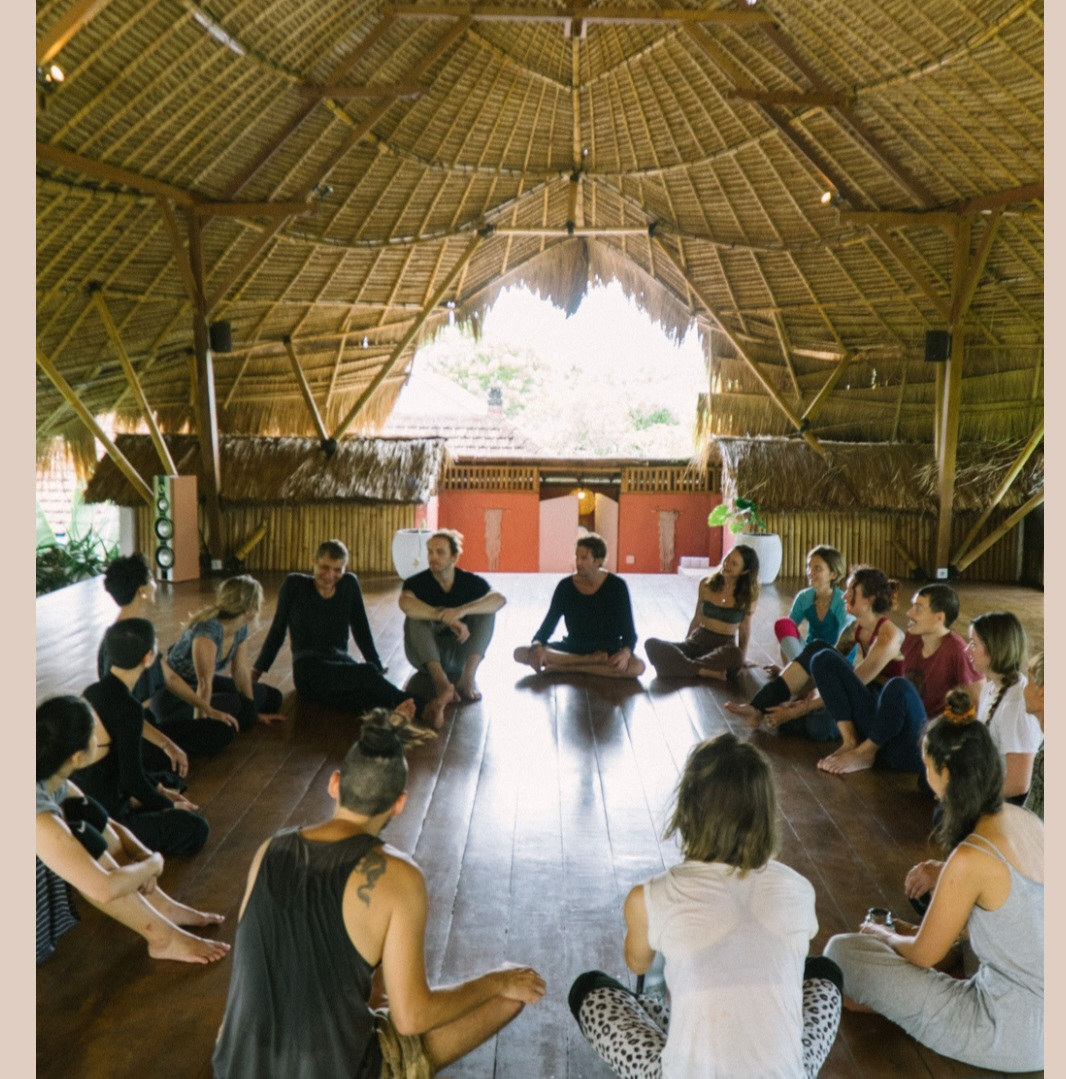
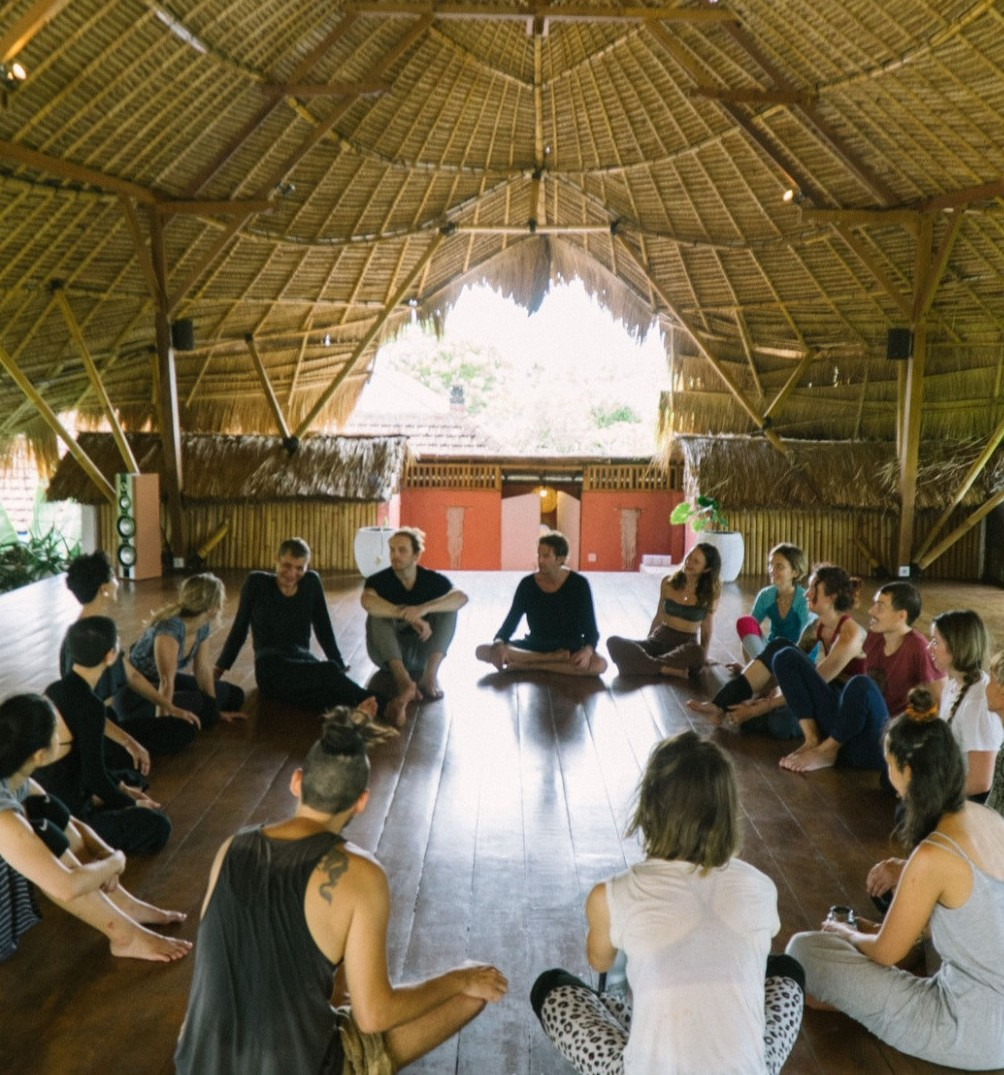
Who it's for before Why join, story below student needs, FAQ before venue, TDE button, full-frame circle photo
Claude-Session: https://claude.ai/code/session_0178kzjQyJnWHmYXgJQw5jcU

diff --git a/index.html b/index.html
@@ -627,6 +627,8 @@ footer a:hover{color:var(--ink)}
 .notice li:last-child{border-bottom:0}
 .gradphoto{margin-top:48px}
 .gradphoto img{width:100%;height:auto;display:block}
+/* v21 */
+.storytext .words{font-family:"Cormorant Garamond",Georgia,serif;font-weight:500;font-size:1.6rem}
 </style>
 </head>
 <body>
@@ -683,20 +685,31 @@ footer a:hover{color:var(--ink)}
     <div class="vidwrap"><video src="img/promo.mp4" poster="img/promo-poster.jpg" autoplay muted loop playsinline controls preload="metadata" aria-label="Momentum workshop promo video"></video></div>
   </div>
 </section>
-<section id="story">
+<section id="fit">
   <div class="wrap">
-    <div class="stack storytext">
-      <p class="cap hi">Why I built Momentum</p>
-      <h2>I nerd out on how contact is taught</h2>
-      <p class="lede">Contact lit me up the first time I danced it, and it still does. After leading <strong>50+ contact workshops</strong>, I'm about twenty steps ahead of most new teachers, simply because I've already made the mistakes.</p>
-      <p class="muted">When I walk into other contact classes, even with experienced teachers, I notice the same things:</p>
-      <ul class="notice">
-        <li>Music from next door competing with the class</li>
-        <li>A floor nobody swept, and no fan on in a hot room</li>
-        <li>A teacher who can't get the group's attention</li>
-        <li>A playlist that isn't getting anyone moving</li>
+    <div class="head">
+      <p class="cap hi">Is this for you?</p>
+      <h2>Who this training is for</h2>
+    </div>
+    <div class="fit">
+      <ul>
+        <li>A contact dancer with some experience who feels ready to start teaching or hosting jams</li>
+        <li>Wanting to bring contact home to your community, or share it more widely</li>
+        <li>Curious about how people learn, not only how to dance</li>
+        <li>A bodyworker, coach or therapist bringing movement into your work</li>
+        <li>Someone who wants structure, mentorship and real skills</li>
+        <li>Curious, willing to practice and ready to lead</li>
       </ul>
-      <p class="words">These aren't failures of passion. They're things nobody teaches you. Level 1 alone holds 7 hours of video teaching on exactly this.</p>
+      <div class="notyet">
+        <p class="cap muted" style="margin-bottom:6px">Not for you yet, if you're</p>
+        <ul>
+          <li>Only interested in performing, choreography or learning contact for yourself. A festival or workshop is the better fit.</li>
+          <li>Brand new to contact. Take some classes, jams or a festival first, then come back.</li>
+          <li>Teaching another dance form and not interested in contact. Teaching Dance Essentials is built for you.</li>
+          <li>Not ready to take responsibility for a group</li>
+          <li>Not ready to put in the practice, the reflection and the time</li>
+        </ul>
+      </div>
     </div>
   </div>
 </section>
@@ -739,35 +752,24 @@ footer a:hover{color:var(--ink)}
     </div>
   </div>
 </section>
-<div class="single"><div class="photo"><img src="img/circle.jpg" alt="Dancers sitting in a circle on a dark wooden floor, clapping together" loading="lazy"></div></div>
-<section class="mist" id="fit">
+<section id="story">
   <div class="wrap">
-    <div class="head">
-      <p class="cap hi">Is this for you?</p>
-      <h2>Who this training is for</h2>
-    </div>
-    <div class="fit">
-      <ul>
-        <li>A contact dancer with some experience who feels ready to start teaching or hosting jams</li>
-        <li>Wanting to bring contact home to your community, or share it more widely</li>
-        <li>Curious about how people learn, not only how to dance</li>
-        <li>A bodyworker, coach or therapist bringing movement into your work</li>
-        <li>Someone who wants structure, mentorship and real skills</li>
-        <li>Curious, willing to practice and ready to lead</li>
+    <div class="stack storytext">
+      <p class="cap hi">Why I built Momentum</p>
+      <h2>I nerd out on how contact is taught</h2>
+      <p class="lede">Contact lit me up the first time I danced it, and it still does. After leading <strong>50+ contact workshops</strong>, I'm about twenty steps ahead of most new teachers, simply because I've already made the mistakes.</p>
+      <p class="muted">When I walk into other contact classes, even with experienced teachers, I notice the same things:</p>
+      <ul class="notice">
+        <li>Music from next door competing with the class</li>
+        <li>A floor nobody swept, and no fan on in a hot room</li>
+        <li>A teacher who can't get the group's attention</li>
+        <li>A playlist that isn't getting anyone moving</li>
       </ul>
-      <div class="notyet">
-        <p class="cap muted" style="margin-bottom:6px">Not for you yet, if you're</p>
-        <ul>
-          <li>Only interested in performing, choreography or learning contact for yourself. A festival or workshop is the better fit.</li>
-          <li>Brand new to contact. Take some classes, jams or a festival first, then come back.</li>
-          <li>Teaching another dance form and not interested in contact. <a href="teaching-dance-essentials/">Teaching Dance Essentials</a> is built for you.</li>
-          <li>Not ready to take responsibility for a group</li>
-          <li>Not ready to put in the practice, the reflection and the time</li>
-        </ul>
-      </div>
+      <p class="words">These aren't failures of passion. They're things nobody teaches you.</p>
     </div>
   </div>
 </section>
+<div class="single"><div class="photo"><img src="img/circle.jpg" alt="Dancers sitting in a circle on a dark wooden floor, clapping together" loading="lazy"></div></div>
 <section class="quotefeat" id="quote" aria-label="Quote">
   <div class="photo"><img src="img/quote.jpg" alt="Dancers rolling over each other in a dark studio" loading="lazy"></div>
   <div class="wrap">
@@ -994,7 +996,7 @@ footer a:hover{color:var(--ink)}
       <p class="muted">You need Level 1 and <strong>at least one year of contact practice</strong> to join Level 2. In <em>Dancing Deeper Still</em>, Martin Keogh suggests a year of dancing before teaching, and Aalia studied for nearly two years before she began. Level 1 asks for some contact experience, not a full year, so you can start now, build your practice alongside it, and join Level 2 later.</p>
       <p class="title md" style="font-size:1.6rem;margin-top:14px">Teach another dance form?</p>
       <p class="muted">We built <strong>Teaching Dance Essentials</strong> for you: the fundamentals of teaching and leading a room, without the contact material.</p>
-      <div class="btns"><a class="btn" href="https://training.momentum-contact.com/teaching-dance-essentials/" target="_blank" rel="noopener">More information</a></div>
+      <div class="btns"><a class="btn" href="https://training.momentum-contact.com/teaching-dance-essentials/" target="_blank" rel="noopener">I want this</a></div>
     </div>
     <div class="ess">
       <div class="photo"><img src="img/floor.jpg" alt="A dancer in a floral top moving across a wooden floor" style="object-position:50% 35%" loading="lazy"></div>
@@ -1003,7 +1005,7 @@ footer a:hover{color:var(--ink)}
         <h3>Teaching Dance Essentials</h3>
         <p class="muted">Not a contact teacher? Maybe you teach tribal fusion, women's dance, salsa, swing or hip hop, or you're an ecstatic dance DJ. Learn <strong>leadership, facilitation and ethics as a dance teacher</strong>, plus the business of dance and all our marketing materials, without the contact improvisation material. Online and self-paced.</p>
         <p class="amt" style="font-size:2.6rem">$269<small>USD</small></p>
-        <div class="btns"><a class="btn solid" href="teaching-dance-essentials/">More information</a><a class="btn" href="https://buy.stripe.com/14A4gA02T7gAcXb6rrdEs2G" target="_blank" rel="noopener">Enroll now</a></div>
+        <div class="btns"><a class="btn solid" href="teaching-dance-essentials/">I want this</a></div>
       </div>
     </div>
   </div>
@@ -1036,20 +1038,6 @@ footer a:hover{color:var(--ink)}
     </div>
   </div>
 </section>
-<section class="mist" id="venue">
-  <div class="wrap">
-    <div class="head">
-      <p class="cap hi">Level 2 venue</p>
-      <h2>Rasa Yoga, Ubud</h2>
-      <p class="lede muted">Our private studio for the week, in central Ubud. Modern rooms are available on site for around 500,000 IDR a night if you'd like to stay where you train.</p>
-    </div>
-    <div class="venue">
-      <div class="photo wide"><img src="img/rasa-class.jpg" alt="A group seated in meditation on mats in the Rasa Yoga studio" loading="lazy"></div>
-      <div class="photo"><img src="img/rasa-room.jpg" alt="A modern guest room at Rasa Yoga with a rattan headboard and garden view" loading="lazy"></div>
-      <div class="photo"><img src="img/rasa-room2.jpg" alt="Another angle of a Rasa Yoga guest room with a sliding rattan wardrobe" loading="lazy"></div>
-    </div>
-  </div>
-</section>
 <section id="faq">
   <div class="wrap">
     <div class="head">
@@ -1068,6 +1056,20 @@ footer a:hover{color:var(--ink)}
       <details><summary>What does a week in Level 2 look like?</summary><p>Momentum technique classes, facilitation labs and teaching practice, ending with a celebration together, like a sauna and dinner night out. You'll get the full schedule a week before.</p></details>
             <details><summary>Can I teach the Momentum Method afterwards?</summary><p>Yes. Use any of the practices freely in your own classes. If you build workshops on this material, please credit it as the Momentum Contact Method and share that you trained with Aalia.</p></details>
       <details><summary>What is the refund policy?</summary><p>All sales are final and non-refundable, so please book mindfully. If you can't make it to Level 2, your place can move to a future Momentum Facilitator Training. If we cancel a training, you'll receive a full refund.</p></details>
+    </div>
+  </div>
+</section>
+<section class="mist" id="venue">
+  <div class="wrap">
+    <div class="head">
+      <p class="cap hi">Level 2 venue</p>
+      <h2>Rasa Yoga, Ubud</h2>
+      <p class="lede muted">Our private studio for the week, in central Ubud. Modern rooms are available on site for around 500,000 IDR a night if you'd like to stay where you train.</p>
+    </div>
+    <div class="venue">
+      <div class="photo wide"><img src="img/rasa-class.jpg" alt="A group seated in meditation on mats in the Rasa Yoga studio" loading="lazy"></div>
+      <div class="photo"><img src="img/rasa-room.jpg" alt="A modern guest room at Rasa Yoga with a rattan headboard and garden view" loading="lazy"></div>
+      <div class="photo"><img src="img/rasa-room2.jpg" alt="Another angle of a Rasa Yoga guest room with a sliding rattan wardrobe" loading="lazy"></div>
     </div>
   </div>
 </section>
